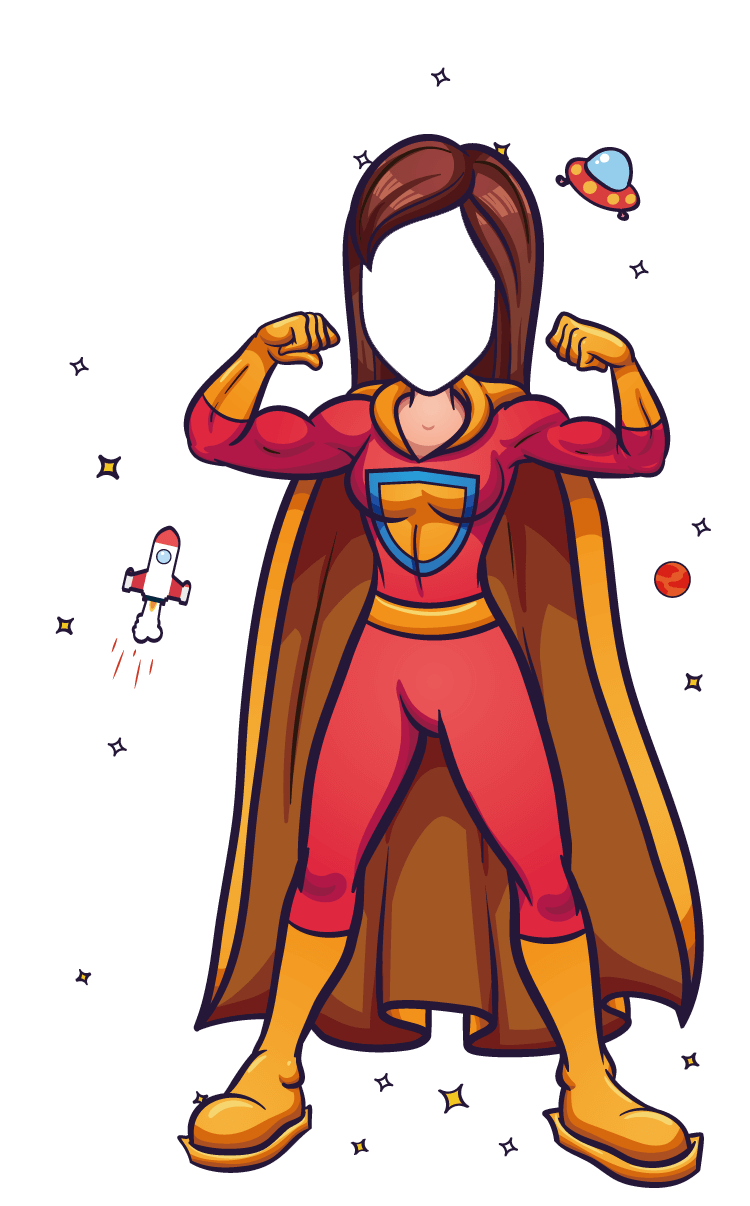
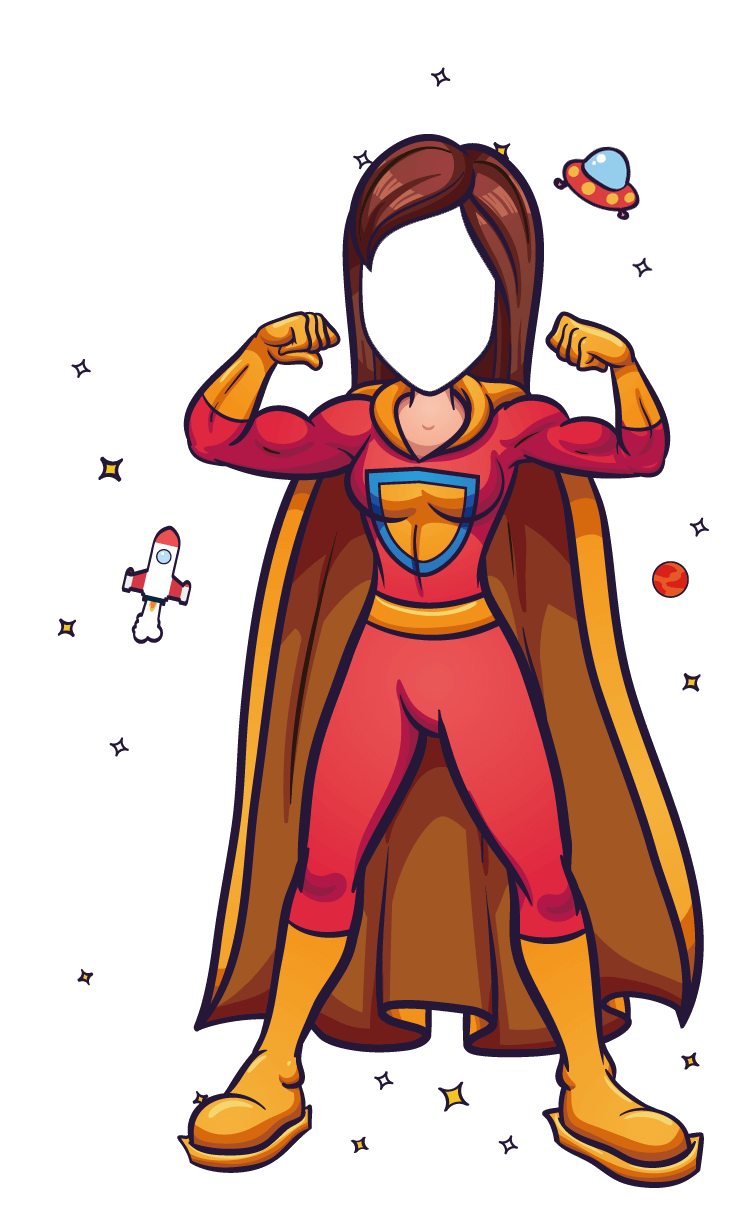
no message

diff --git a/src/pages/Page10/Female.vue b/src/pages/Page10/Female.vue
@@ -7,11 +7,10 @@
     <img v-show="aniVar.earth === 3" src="../../assets/p1/10.png">
     <!--<img v-show="aniVar.rocket === 0" src="../../assets/p1/5.png">-->
     <!--<img v-show="aniVar.rocket === 1" src="../../assets/p1/6.png">-->
-    <img v-show="aniVar.UFO === 0" src="../../assets/p1/3.png">
-    <img v-show="aniVar.UFO === 1" src="../../assets/p1/4.png">
-    <img v-show="aniVar.superwoman === 0" src="../../assets/p11/4.png">
-    <img v-show="aniVar.superwoman === 1" src="../../assets/p11/5.png">
-    <img src="../../assets/p11/5.png">
+    <!--<img v-show="aniVar.UFO === 0" src="../../assets/p1/3.png">-->
+    <!--<img v-show="aniVar.UFO === 1" src="../../assets/p1/4.png">-->
+    <img v-show="aniVar.superwoman === 0" src="../../assets/p11/5.png">
+    <img v-show="aniVar.superwoman === 1" src="../../assets/p11/4.png">
     <img v-show="words === 0" class="wordsAnimate" src="../../assets/p11/1.png">
     <img v-show="words === 1" class="wordsAnimate" src="../../assets/p11/2.png">
     <img v-show="words === 2" class="wordsAnimate" src="../../assets/p11/3.png">
@@ -32,7 +31,7 @@
         aniVar: {
           earth: null,
           // rocket: null,
-          UFO: null,
+          // UFO: null,
           superwoman: null
         },
         words: null
@@ -43,7 +42,7 @@
         this.words = Math.floor(Math.random() * 3)
         aniLoop(this, 'earth', 4, 100)
         // aniLoop(this, 'rocket', 2)
-        aniLoop(this, 'UFO', 2)
+        // aniLoop(this, 'UFO', 2)
         aniLoop(this, 'superwoman', 2)
       }
     }

diff --git a/src/pages/Page10/Male.vue b/src/pages/Page10/Male.vue
@@ -2,10 +2,10 @@
   <div class="male">
     <div class="avatarBox" :style="{backgroundImage:`url(${imgUrl})`}"></div>
 
-    <img v-show="aniVar.earth === 0" src="../../assets/p1/7.png">
-    <img v-show="aniVar.earth === 1" src="../../assets/p1/8.png">
-    <img v-show="aniVar.earth === 2" src="../../assets/p1/9.png">
-    <img v-show="aniVar.earth === 3" src="../../assets/p1/10.png">
+    <img class="earth" v-show="aniVar.earth === 0" src="../../assets/p1/7.png">
+    <img class="earth" v-show="aniVar.earth === 1" src="../../assets/p1/8.png">
+    <img class="earth" v-show="aniVar.earth === 2" src="../../assets/p1/9.png">
+    <img class="earth" v-show="aniVar.earth === 3" src="../../assets/p1/10.png">
     <img v-show="aniVar.rocket === 0" src="../../assets/p1/5.png">
     <img v-show="aniVar.rocket === 1" src="../../assets/p1/6.png">
     <img v-show="aniVar.UFO === 0" src="../../assets/p1/3.png">
@@ -65,6 +65,9 @@
       top: 27vh;
       background-size: cover;
       background-position: center center;
+    }
+    .earth {
+      top: 3vh;
     }
     .wordsAnimate {
       animation-duration: 1s;
